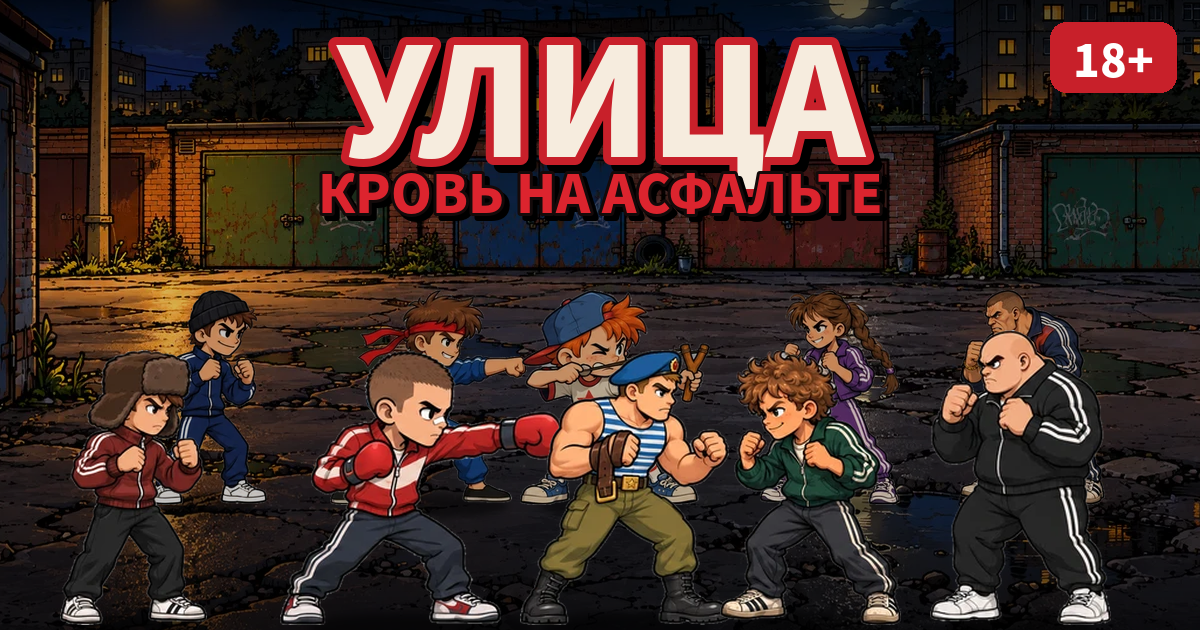
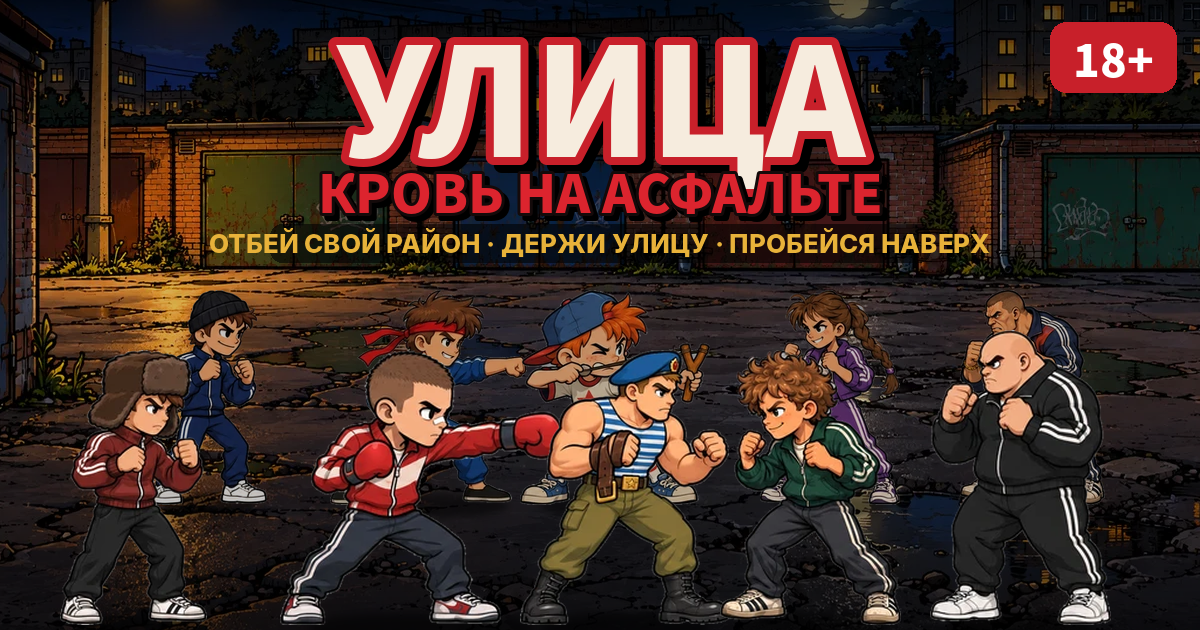
ulica: разрулить внутри сюжетов (главы 1, 4, 7, 8 и этапы рынка 2, 4, 6), слоган «Отбей свой район», капуста — зелёные купюры, кнопка кармана — бутылка; обложка со слоганом
Claude-Session: https://claude.ai/code/session_017w6utUE8t4YTdujvejqZkJ

Changed region(s): [[0.1542, 0.3317, 0.8325, 0.4222]]

diff --git a/ulica/index.html b/ulica/index.html
@@ -34,10 +34,10 @@ button.on{border-color:var(--gold);background:#3a2a1a}
 #stick{position:absolute;left:4vw;bottom:6vh;width:150px;height:150px;border-radius:50%;background:rgba(255,255,255,.08);border:2px solid rgba(255,255,255,.18);pointer-events:auto}
 #knob{position:absolute;left:50%;top:50%;width:62px;height:62px;margin:-31px 0 0 -31px;border-radius:50%;background:rgba(255,255,255,.28)}
 .tb{position:absolute;width:84px;height:84px;border-radius:50%;background:rgba(200,32,42,.55);border:2px solid rgba(255,255,255,.3);color:#fff;font:900 15px system-ui;display:grid;place-items:center;pointer-events:auto}
-#bA{right:4vw;bottom:8vh}#bC small,#bD small{display:block;font-size:9px;font-weight:800;margin-top:-6px}#bC,#bD{display:flex;flex-direction:column;align-items:center;justify-content:center}#bD{right:calc(4vw + 100px);bottom:calc(8vh + 100px);width:58px;height:58px;font-size:24px;background:rgba(232,178,58,.45)}#bC{right:calc(4vw + 30px);bottom:calc(8vh + 100px);width:58px;height:58px;font-size:24px;background:rgba(90,208,90,.45)}.shg{display:grid;grid-template-columns:repeat(auto-fill,minmax(150px,1fr));gap:8px;margin:8px 0}.shb{display:flex;flex-direction:column;align-items:center;gap:2px;padding:10px 6px}.shb span{font-size:28px}.shb small{opacity:.8;font-weight:600;font-size:12px}.shb i{font-style:normal;color:var(--gold);font-weight:800}.shb.on{outline:3px solid #5ad05a}.stb.on{outline:3px solid var(--gold)}#bB{right:calc(4vw + 96px);bottom:4vh;background:rgba(232,178,58,.5)}
+#bA{right:4vw;bottom:8vh}#bC small,#bD small{display:block;font-size:9px;font-weight:800;margin-top:-6px}#bC,#bD{display:flex;flex-direction:column;align-items:center;justify-content:center}#bD{right:calc(4vw + 100px);bottom:calc(8vh + 100px);width:58px;height:58px;font-size:24px;background:rgba(232,178,58,.45)}#bC{right:calc(4vw + 30px);bottom:calc(8vh + 100px);width:58px;height:58px;font-size:24px;background:rgba(90,208,90,.45)}.kp{display:inline-block;width:1.55em;height:1em;background:url(img/kap.png) center/contain no-repeat;vertical-align:-.18em;font-style:normal}.shg{display:grid;grid-template-columns:repeat(auto-fill,minmax(150px,1fr));gap:8px;margin:8px 0}.shb{display:flex;flex-direction:column;align-items:center;gap:2px;padding:10px 6px}.shb span{font-size:28px}.shb small{opacity:.8;font-weight:600;font-size:12px}.shb i{font-style:normal;color:var(--gold);font-weight:800}.shb.on{outline:3px solid #5ad05a}.stb.on{outline:3px solid var(--gold)}#bB{right:calc(4vw + 96px);bottom:4vh;background:rgba(232,178,58,.5)}
 </style></head><body>
 <div id="wrap"><canvas id="c" width="1280" height="720" aria-label="Улица"></canvas></div>
-<div id="touch" hidden><div id="stick"><div id="knob"></div></div><div class="tb" id="bA">УДАР</div><div class="tb" id="bB">ПИНОК</div><div class="tb" id="bC">🥛<small>карман</small></div><div class="tb" id="bD">🔄<small>сменить</small></div></div>
+<div id="touch" hidden><div id="stick"><div id="knob"></div></div><div class="tb" id="bA">УДАР</div><div class="tb" id="bB">ПИНОК</div><div class="tb" id="bC"><img src="img/w_kefir.webp" alt="" style="width:34px;height:34px;object-fit:contain;transform:rotate(-80deg);pointer-events:none"><small>карман</small></div><div class="tb" id="bD">🔄<small>сменить</small></div></div>
 <button id="mb" hidden>☰ Меню</button><div id="ui"></div>
 <script src="https://unpkg.com/mqtt@5.10.1/dist/mqtt.min.js"></script>
 <script src="/net.js"></script>
@@ -653,7 +653,7 @@ function progHTML(){const P=PROG.h[myHero],k=Math.min(100,P.xp/xpNeed(P.lv)*100)
  return `<div class="pbox"><b>${HEROES[myHero].name} · уровень ${P.lv} · ${rankOf(P.lv)}</b><div class="xpb"><i style="width:${k}%"></i></div><small>опыт ${P.xp}/${xpNeed(P.lv)} · очки прокачки: <b style="color:var(--gold)">${P.pts}</b></small>
  <div class="row">${Object.entries(UPS).map(([u,d])=>`<button class="up" data-u="${u}" ${P.pts>0&&P.up[u]<UPMAX?'':'disabled'}>${d.name} ${P.up[u]}/${UPMAX} <small>${d.desc}</small> ＋</button>`).join('')}</div>
  <small style="opacity:.7">Опыт: нокаут +25, победа в раунде +40 (задание +60), победа в матче +100</small></div>`}
-function progLine(){const P=PROG.h[myHero];return `<p class="sub">+${MXP} опыта · +${MKAP} 🥬 · ${HEROES[myHero].name}: уровень ${P.lv} (${rankOf(P.lv)})${MLV?` · <b style="color:#7cf07c">новых уровней: ${MLV}</b> — вложи очки в меню`:''}</p>`}
+function progLine(){const P=PROG.h[myHero];return `<p class="sub">+${MXP} опыта · +${MKAP} <i class="kp"></i> · ${HEROES[myHero].name}: уровень ${P.lv} (${rankOf(P.lv)})${MLV?` · <b style="color:#7cf07c">новых уровней: ${MLV}</b> — вложи очки в меню`:''}</p>`}
 
 /* ---------- shared paint helpers ---------- */
 function vignette(g){const vg=g.createRadialGradient(W/2,H*.62,210,W/2,H*.6,900);vg.addColorStop(0,'rgba(0,0,0,0)');vg.addColorStop(1,'rgba(0,0,0,.55)');g.fillStyle=vg;g.fillRect(0,0,W,H)}
@@ -1150,14 +1150,14 @@ PAINTERS.disko=g=>bgPhoto(g,'disko',paintDisko);
 /* ---------- СЮЖЕТ «ПУТЬ ПАЦАНА» + БОССЫ ---------- */
 WEAPONS.bpistol={name:'Ствол',dmg:16,range:900,cd:1.9,knock:220,ammo:99,col:'#1c1c22',gun:1};
 const CH=[
- {t:'Новенький',m:'ffa',ic:'🧢',tx:'Ты только переехал в этот район. Здесь свои порядки: новенького всегда проверяют у гаражей. Выстой — и с тобой начнут разговаривать.'},
+ {t:'Новенький',m:'ffa',ic:'🧢',rz:{at:'round',who:'Местный старший',tip:'После первой стычки старший у гаражей машет рукой: «Хватит. Давай поговорим — кто ты такой?»'},tx:'Ты только переехал в этот район. Здесь свои порядки: новенького всегда проверяют у гаражей. Выстой — и с тобой начнут разговаривать.'},
  {t:'Свои',m:'team',ic:'🤝',tx:'Тебя заметили. Старшие зовут в компанию, но сначала — стенка на стройке, двое на двое. Посмотрим, прикроешь ли ты своего.'},
  {t:'Дефицит',m:'zavod',ic:'📦',tx:'Старшие говорят: на заводе «Прогресс» лежит ящик дефицита. Ночью, тихо, через дыру в заборе. Сторожа злые, а у деда — ружьё с солью.'},
- {t:'Отжать салон',m:'salon',ic:'📼',tx:'Видик с соседнего района крутит кино в подвале и ни с кем не делится. Пора объяснить ему, чей это район.'},
+ {t:'Отжать салон',m:'salon',ic:'📼',rz:{at:'start',who:'Видик',tip:'Хозяин салона выходит навстречу: «Может, договоримся, пока аппаратуру не побили?»'},tx:'Видик с соседнего района крутит кино в подвале и ни с кем не делится. Пора объяснить ему, чей это район.'},
  {t:'Разборка по кругу',m:'rayon',ic:'🚲',tx:'Заречные решили, что гаражи теперь их. Разбор — на великах и скейтах, три круга по району. Приди первым или сбей их всех.'},
  {t:'Облава',m:'oblava',ic:'🚨',tx:'После гонки по району всё отделение на ушах. Нычки раскиданы по пустырю — собери и уйди в свой гараж, пока не рассвело.'},
- {t:'Дискотека',m:'disko',ic:'🪩',tx:'Суббота, ДК «Строитель». Пока играет медляк — мир, дружинники смотрят. Но заречные пришли не танцевать.'},
- {t:'Бригадир',m:'boss',b:'brig',ic:'⛑',tx:'Бригадир со стройки собирает дань с гаражей. Говорят, ломом машет как прутиком, а кирпичи кидает через весь двор. Один на один.'},
+ {t:'Дискотека',m:'disko',ic:'🪩',rz:{at:'round',who:'Старший заречных',tip:'После первого раунда старший заречных отводит тебя в сторону: «Дружинники смотрят. Решим по-тихому?»'},tx:'Суббота, ДК «Строитель». Пока играет медляк — мир, дружинники смотрят. Но заречные пришли не танцевать.'},
+ {t:'Бригадир',m:'boss',b:'brig',ic:'⛑',rz:{at:'start',who:'Бригадир',tip:'Бригадир опирается на лом: «Дань с гаражей — моя. Но если ты такой умный — объясни, почему нет.»'},tx:'Бригадир со стройки собирает дань с гаражей. Говорят, ломом машет как прутиком, а кирпичи кидает через весь двор. Один на один.'},
  {t:'Хозяин рынка',m:'boss',b:'host',ic:'👑',tx:'Последний — Хозяин рынка. Пока он держит рынок, район не твой. С ним охрана, а у него самого — ствол.'}];
 const CAMP={on:0,ch:0};
 function campMax(){return Math.min(CH.length,LS.get('camp',1))}
@@ -1166,9 +1166,14 @@ function showCamp(){state='menu';CAMP.on=0;$ui.hidden=false;document.getElementB
  ${mx>=CH.length&&LS.get('campdone',0)?'<p class="sub" style="color:var(--gold)">★ Сюжет пройден. Район твой.</p>':''}<div class="row"><button id="back">Назад</button></div></div>`;
  $ui.querySelectorAll('.ch').forEach(b=>b.onclick=()=>showChapter(+b.dataset.c));document.getElementById('back').onclick=showMenu}
 function showChapter(i){const c=CH[i];$ui.innerHTML=`<div class="card"><p class="sub">Глава ${i+1} из ${CH.length}</p><h1 style="font-size:clamp(34px,7vw,64px)">${c.ic} ${c.t.toUpperCase()}</h1><div class="warn" style="border-color:#4a3d48;text-align:left;font-size:17px">${c.tx}</div>
- <div class="row"><button class="pri" id="cgo">Начать главу</button>${RZCH.includes(c.m)?'<button id="crz">🗣 Разрулить без драки</button>':''}<button id="cback">К главам</button></div></div>`;
- document.getElementById('cgo').onclick=()=>{au();CAMP.on=1;CAMP.ch=i;mode=c.m;G=null;LOC=0;paintBG();start()};document.getElementById('cback').onclick=showCamp;const rb=document.getElementById('crz');if(rb)rb.onclick=()=>{CAMP.on=1;CAMP.ch=i;rzStart(c.b==='host'?'Хозяин рынка':c.b==='brig'?'Бригадир':c.m==='salon'?'Видик':'Старший',.15+i/CH.length*.85,()=>{state='end';$ui.innerHTML=`<div class="card"><h1 style="text-shadow:4px 4px 0 #e8b23a">РАЗРУЛИЛ</h1><p class="sub">${c.t}: решено без драки.</p>${progLine()}<div class="row"><button id="again">Ещё раз</button><button id="menu">Меню</button></div></div>`;campAfter(true);const ag=document.getElementById('again');if(ag)ag.onclick=()=>showChapter(i)},()=>{state='menu';$ui.innerHTML=`<div class="card"><h1 style="text-shadow:4px 4px 0 #c8202a">НЕ ВЫШЛО</h1><p class="sub">Разговор не сложился. Значит — драка.</p><div class="row"><button class="pri" id="cf">👊 В бой</button><button id="cb">К главам</button></div></div>`;document.getElementById('cf').onclick=()=>{au();CAMP.on=1;CAMP.ch=i;mode=c.m;G=null;LOC=0;paintBG();start()};document.getElementById('cb').onclick=showCamp})}}
-const RZCH=['ffa','team','salon','boss'];
+ <div class="row"><button class="pri" id="cgo">Начать главу</button>${c.rz?'<p class="sub" style="font-size:13px;color:var(--gold)">🗣 В этой главе можно попробовать разрулить по понятиям</p>':''}<button id="cback">К главам</button></div></div>`;
+ document.getElementById('cgo').onclick=()=>{au();CAMP.on=1;CAMP.ch=i;mode=c.m;G=null;LOC=0;paintBG();start()};document.getElementById('cback').onclick=showCamp}
+const RZCH=[];
+/* разрулить внутри сюжета: в отдельных главах посреди боя появляется возможность договориться */
+function campRzWin(){const i=CAMP.ch,c=CH[i];state='end';document.getElementById('mb').hidden=true;document.getElementById('touch').hidden=true;$ui.hidden=false;
+ $ui.innerHTML=`<div class="card"><h1 style="text-shadow:4px 4px 0 #e8b23a">РАЗРУЛИЛ</h1><p class="sub">${c.t}: решили по понятиям, без лишней крови.</p>${progLine()}<div class="row"><button id="again">Ещё раз</button><button id="menu">Меню</button></div></div>`;campAfter(true);const ag=document.getElementById('again');if(ag)ag.onclick=()=>showChapter(i)}
+function campRzCheck(at){if(!CAMP.on||!G||CAMP.rzAsked)return false;const c=CH[CAMP.ch];if(!c||!c.rz||c.rz.at!==at)return false;CAMP.rzAsked=1;
+ rzOffer(c.rz.who,.15+CAMP.ch/CH.length*.8,c.rz.tip,()=>{if(at==='round')newRound()},()=>campRzWin());return true}
 function campAfter(won){if(!CAMP.on)return;const card=$ui.querySelector('.card');if(!card)return;const i=CAMP.ch,last=i===CH.length-1,d=document.createElement('div');
  if(won){if(campMax()<i+2)LS.set('camp',Math.min(CH.length,i+2));gainXP(50);if(last){LS.set('campdone',1);gainXP(250)}
   d.innerHTML=last?`<div class="warn" style="border-color:var(--gold)"><b>Район твой. Теперь ты — старший.</b><br>Сюжет пройден! +300 опыта.</div><div class="row"><button class="pri" id="cnext">К главам</button></div>`:`<p class="sub" style="color:var(--gold)">Глава ${i+1} пройдена! +50 опыта</p><div class="row"><button class="pri" id="cnext">Глава ${i+2}: ${CH[i+1].t} ▶</button></div>`}
@@ -1212,7 +1217,7 @@ function rynInit(){G.wave=1;G.waves=2;G.bossOn=0;G.clearT=0;const me=G.F[0];if(R
  const B=RST[RYN.st-1];G.msg='ЭТАП '+RYN.st+'/7 · '+B.loc.toUpperCase();G.sub='Впереди '+B.b.toLowerCase()+'. Сначала разберись с его людьми.';G.msgT=3;spawnDrop('kefir');spawnDrop(null)}
 function rynUpdate(dt){if(G.over)return;const en=G.F.filter(f=>f.team===1&&f.state!=='ko');if(en.length)return;
  if(G.wave<G.waves){G.wave++;G0wave(G.F,G.wave);G.FX.push({x:1100,y:300,t:0,life:1.2,txt:'ЕЩЁ ИДУТ!',c:'#ff7a3a',big:1});spawnDrop(Math.random()<.5?'kefir':null)}
- else if(!G.bossOn){G.bossOn=1;const s=RYN.st,B=RST[s-1];rzOffer(B.b,(s-1)/6,B.tip,rynSpawnBoss,()=>{G.FX.push({x:640,y:300,t:0,life:1.6,txt:'РАЗРУЛИЛ!',c:'#e8b23a',big:1})})}
+ else if(!G.bossOn){G.bossOn=1;const s=RYN.st,B=RST[s-1];if(![2,4,6].includes(s)){rynSpawnBoss();return}rzOffer(B.b,(s-1)/6,B.tip,rynSpawnBoss,()=>{G.FX.push({x:640,y:300,t:0,life:1.6,txt:'РАЗРУЛИЛ!',c:'#e8b23a',big:1})})}
  else{G.over=1;G.overT=0;G.win=true;G.msg=RYN.st<7?'ЭТАП ПРОЙДЕН':'РЫНОК ТВОЙ!';G.sub='';G.msgT=99;SFX.bell();gainXP(60)}}
 function rynokEnd(){const me=G.F[0];if(G.win&&RYN.st<7){RYN.hp=me.hp;RYN.carry=1;RYN.st++;if(RYN.st>rynMax())LS.set('ryn',RYN.st);newRound();return}
  state='end';document.getElementById('mb').hidden=true;$ui.hidden=false;document.getElementById('touch').hidden=true;const won=G.win;if(won){gainXP(200);LS.set('ryndone',1)}
@@ -1374,18 +1379,18 @@ function tgApply(d){if(!d||!d.ok)return false;if(d.secret){TG.secret=d.secret;TG
 async function tgHello(){try{let d=TG.id?await tgCall('state'):null;if(!d||!d.ok){TG.id='';TG.secret='';d=await tgCall('hello',{name:'Пацан'})}TG.err=tgApply(d)?'':'нет связи'}catch(e){TG.err='нет связи с банком'}}
 async function tgSwap(dir,n){if(TG.c==null)await tgHello();if(TG.c==null)return 'Нет связи с банком Тагшим';
  if(dir==='in'){const kap=n*KRATE;if(INV.kap<kap)return 'Не хватает капусты';try{const d=await tgCall('swap',{dir:'in',n,game:'ulica'});if(!d.ok)return d.err==='cap'?'Сегодня больше не меняют — лимит 300 ₮ в день':'Не получилось';tgApply(d);INV.kap-=d.got*KRATE;invSave();return `+${d.got} ₮ тагшим`}catch(e){return 'Нет связи с банком Тагшим'}}
- else{try{const d=await tgCall('swap',{dir:'out',n,game:'ulica'});if(!d.ok)return d.err==='money'?'Не хватает тагшимов':'Не получилось';tgApply(d);INV.kap+=d.got*KRATE;invSave();return `+${d.got*KRATE} 🥬 капусты`}catch(e){return 'Нет связи с банком Тагшим'}}}
+ else{try{const d=await tgCall('swap',{dir:'out',n,game:'ulica'});if(!d.ok)return d.err==='money'?'Не хватает тагшимов':'Не получилось';tgApply(d);INV.kap+=d.got*KRATE;invSave();return `+${d.got*KRATE} <i class="kp"></i> капусты`}catch(e){return 'Нет связи с банком Тагшим'}}}
 /* ---- экран барахолки ---- */
 let SHTAB='w';
 function showShop(msg){state='menu';$ui.hidden=false;document.getElementById('mb').hidden=true;document.getElementById('touch').hidden=true;
  const tabs=[['w','🔪 Оружие'],['i','👕 Шмот'],['c','🥤 Расходники'],['x','💱 Обмен']];let body='';
- if(SHTAB==='w')body=`<p class="sub">Покупаешь один раз. Выбранное оружие у тебя в руках в начале каждого боя (в гонках не берётся).</p><div class="shg">${SHW.map(([k,p])=>{const own=INV.w.includes(k),on=INV.sel===k;return `<button class="shb ${on?'on':''}" data-w="${k}" ${!own&&INV.kap<p?'disabled':''}><img src="img/w_${k}.webp" style="height:34px;max-width:120px;object-fit:contain"><b>${WEAPONS[k].name}${k==='pistol'?' · 3 патрона':''}</b><small>урон ${WEAPONS[k].dmg}</small><i>${own?(on?'✔ в руках':'взять'):p+' 🥬'}</i></button>`}).join('')}</div>${INV.sel?'<div class="row"><button id="shnone">Начинать с кулаками</button></div>':''}`;
- else if(SHTAB==='i')body=`<p class="sub">Надеть можно 3 вещи сразу (надето: ${INV.eq.length}/3).</p><div class="shg">${Object.entries(SHI).map(([k,I])=>{const own=INV.it.includes(k),on=EQ(k);return `<button class="shb ${on?'on':''}" data-i="${k}" ${!own&&INV.kap<I.p?'disabled':''}><span>${I.ic}</span><b>${I.n}</b><small>${I.d}</small><i>${own?(on?'✔ надето':'надеть'):I.p+' 🥬'}</i></button>`}).join('')}</div>`;
- else if(SHTAB==='c')body=`<p class="sub">В бою — кнопка 🎒 или клавиша Q. Сама выберет: кефир, если ранен, иначе тархун, иначе жвачку.</p><div class="shg">${Object.entries(SHC).map(([k,I])=>`<button class="shb" data-c="${k}" ${INV.kap<I.p?'disabled':''}><span>${I.ic}</span><b>${I.n}</b><small>${I.d}</small><i>${I.p} 🥬 · есть ${INV.c[k]}</i></button>`).join('')}</div>`;
- else body=`<p class="sub">Тагшим ₮ — общая валюта всех игр Тагшим. Курс: ${KRATE} 🥬 = 1 ₮. Из капусты в тагшимы — до 300 ₮ в день.</p><div class="warn" style="border-color:#e8b23a;font-size:18px">🥬 ${INV.kap} капусты &nbsp;·&nbsp; ₮ ${TG.c==null?(TG.err||'…'):TG.c} тагшим</div>
-  <div class="row"><span style="align-self:center">🥬 → ₮</span>${[10,50,100].map(n=>`<button class="sx" data-d="in" data-n="${n}" ${INV.kap<n*KRATE?'disabled':''}>${n*KRATE} 🥬 → ${n} ₮</button>`).join('')}</div>
-  <div class="row"><span style="align-self:center">₮ → 🥬</span>${[10,50,100].map(n=>`<button class="sx" data-d="out" data-n="${n}" ${TG.c!=null&&TG.c<n?'disabled':''}>${n} ₮ → ${n*KRATE} 🥬</button>`).join('')}</div>`;
- $ui.innerHTML=`<div class="card"><h1 style="font-size:clamp(32px,6vw,54px)">БАРАХОЛКА</h1><p class="sub">У гаражей, у Барыги. Всё по-честному — почти.</p><div class="warn" style="border-color:#5ad05a;padding:8px;font-size:20px"><b>🥬 ${INV.kap}</b> капусты${TG.c!=null?` · ₮ ${TG.c}`:''}</div>${msg?`<p class="sub" style="color:var(--gold)">${msg}</p>`:''}
+ if(SHTAB==='w')body=`<p class="sub">Покупаешь один раз. Выбранное оружие у тебя в руках в начале каждого боя (в гонках не берётся).</p><div class="shg">${SHW.map(([k,p])=>{const own=INV.w.includes(k),on=INV.sel===k;return `<button class="shb ${on?'on':''}" data-w="${k}" ${!own&&INV.kap<p?'disabled':''}><img src="img/w_${k}.webp" style="height:34px;max-width:120px;object-fit:contain"><b>${WEAPONS[k].name}${k==='pistol'?' · 3 патрона':''}</b><small>урон ${WEAPONS[k].dmg}</small><i>${own?(on?'✔ в руках':'взять'):p+' <i class="kp"></i>'}</i></button>`}).join('')}</div>${INV.sel?'<div class="row"><button id="shnone">Начинать с кулаками</button></div>':''}`;
+ else if(SHTAB==='i')body=`<p class="sub">Надеть можно 3 вещи сразу (надето: ${INV.eq.length}/3).</p><div class="shg">${Object.entries(SHI).map(([k,I])=>{const own=INV.it.includes(k),on=EQ(k);return `<button class="shb ${on?'on':''}" data-i="${k}" ${!own&&INV.kap<I.p?'disabled':''}><span>${I.ic}</span><b>${I.n}</b><small>${I.d}</small><i>${own?(on?'✔ надето':'надеть'):I.p+' <i class="kp"></i>'}</i></button>`}).join('')}</div>`;
+ else if(SHTAB==='c')body=`<p class="sub">В бою — кнопка 🎒 или клавиша Q. Сама выберет: кефир, если ранен, иначе тархун, иначе жвачку.</p><div class="shg">${Object.entries(SHC).map(([k,I])=>`<button class="shb" data-c="${k}" ${INV.kap<I.p?'disabled':''}><span>${I.ic}</span><b>${I.n}</b><small>${I.d}</small><i>${I.p} <i class="kp"></i> · есть ${INV.c[k]}</i></button>`).join('')}</div>`;
+ else body=`<p class="sub">Тагшим ₮ — общая валюта всех игр Тагшим. Курс: ${KRATE} <i class="kp"></i> = 1 ₮. Из капусты в тагшимы — до 300 ₮ в день.</p><div class="warn" style="border-color:#e8b23a;font-size:18px"><i class="kp"></i> ${INV.kap} капусты &nbsp;·&nbsp; ₮ ${TG.c==null?(TG.err||'…'):TG.c} тагшим</div>
+  <div class="row"><span style="align-self:center"><i class="kp"></i> → ₮</span>${[10,50,100].map(n=>`<button class="sx" data-d="in" data-n="${n}" ${INV.kap<n*KRATE?'disabled':''}>${n*KRATE} <i class="kp"></i> → ${n} ₮</button>`).join('')}</div>
+  <div class="row"><span style="align-self:center">₮ → <i class="kp"></i></span>${[10,50,100].map(n=>`<button class="sx" data-d="out" data-n="${n}" ${TG.c!=null&&TG.c<n?'disabled':''}>${n} ₮ → ${n*KRATE} <i class="kp"></i></button>`).join('')}</div>`;
+ $ui.innerHTML=`<div class="card"><h1 style="font-size:clamp(32px,6vw,54px)">БАРАХОЛКА</h1><p class="sub">У гаражей, у Барыги. Всё по-честному — почти.</p><div class="warn" style="border-color:#5ad05a;padding:8px;font-size:20px"><b><i class="kp"></i> ${INV.kap}</b> капусты${TG.c!=null?` · ₮ ${TG.c}`:''}</div>${msg?`<p class="sub" style="color:var(--gold)">${msg}</p>`:''}
  <div class="row">${tabs.map(([k,n])=>`<button class="stb ${SHTAB===k?'on':''}" data-t="${k}">${n}</button>`).join('')}</div>${body}<div class="row"><button id="shback">Назад</button></div></div>`;
  $ui.querySelectorAll('.stb').forEach(b=>b.onclick=()=>{SHTAB=b.dataset.t;showShop();if(SHTAB==='x'&&TG.c==null)tgHello().then(()=>{if(SHTAB==='x'&&state==='menu')showShop()})});
  $ui.querySelectorAll('[data-w]').forEach(b=>b.onclick=()=>{const k=b.dataset.w,p=SHW.find(x=>x[0]===k)[1];if(!INV.w.includes(k)){if(INV.kap<p)return;INV.kap-=p;INV.w.push(k);SFX.pick()}INV.sel=k;invSave();showShop(INV.w.includes(k)?WEAPONS[k].name+' — в руках':'')});
@@ -1479,7 +1484,7 @@ function nEnd(txt,won){state='end';NETU.phase='lobby';if(won)gainXP(100);gainKap
  $ui.innerHTML=`<div class="card"><h1 style="text-shadow:4px 4px 0 ${won?'#e8b23a':'#c8202a'}">${won?'УЛИЦА ТВОЯ':'НЕ В ЭТОТ РАЗ'}</h1><p class="sub">${txt}</p><div class="pbox">${(NETU.P||[]).map(p=>`<div>${p.name} · ${HEROES[p.hero]?HEROES[p.hero].name:''}</div>`).join('')}</div>${progLine()}<div class="row"><button class="pri" id="nlb">В комнату</button><button id="nmn">Выйти в меню</button></div></div>`;
  document.getElementById('nlb').onclick=()=>{G=null;showOnline()};document.getElementById('nmn').onclick=()=>{nLeave();G=null;showMenu()}}
 /* ---------- update ---------- */
-function update(dt){if(RMODE())return rUpdate(dt);G.t+=dt;if(G.msgT>0)G.msgT-=dt;
+function update(dt){if(RMODE())return rUpdate(dt);G.t+=dt;if(CAMP.on&&!CAMP.rzAsked&&G.t>1.6&&!G.over&&campRzCheck('start'))return;if(G.msgT>0)G.msgT-=dt;
  const me=G.F[0];
  for(const f of G.F){f.cd-=dt;f.kcd-=dt;f.atkT-=dt;f.kickT-=dt;f.flash-=dt;f.anim+=dt;if(f.hurtT>0)f.hurtT-=dt;if(f.stun>0)f.stun-=dt;if(f.upT>0)f.upT-=dt;if(f===me)invTick(f,dt);
   if(f.state==='ko'){f.downT+=dt;continue}
@@ -1558,17 +1563,17 @@ function render(t){if(RMODE())return rRender(t);ctx.save();if(shake>0)ctx.transl
 /* ---------- UI ---------- */
 function heroCanvas(i){const c=document.createElement('canvas');c.width=140;c.height=190;const g=c.getContext('2d');drawFighter(g,{x:70,y:180,hero:i,face:1,state:'idle',anim:0,atkT:0,kickT:0,hp:1,max:1,name:'',bot:false,stun:0,weapon:i===2?'rebar':i===0?'bat':i===1?'chain':null,hurtT:0,flash:0,team:0,idx:0,noHud:1},0);
  g.clearRect(0,0,140,14);return c}
-function showAge(){state='age';$ui.hidden=false;$ui.innerHTML=`<div class="card"><h1>УЛИЦА</h1><h2 style="color:#c8202a">КРОВЬ НА АСФАЛЬТЕ</h2><p class="sub">Уличные бои без правил. Конец восьмидесятых.</p>
+function showAge(){state='age';$ui.hidden=false;$ui.innerHTML=`<div class="card"><h1>УЛИЦА</h1><h2 style="color:#c8202a">КРОВЬ НА АСФАЛЬТЕ</h2><p class="sub" style="letter-spacing:1.5px;font-weight:800;color:var(--gold);margin-top:-4px">ОТБЕЙ СВОЙ РАЙОН · ДЕРЖИ УЛИЦУ · ПРОБЕЙСЯ НАВЕРХ</p><p class="sub">Уличные бои без правил. Конец восьмидесятых.</p>
  <div class="warn"><b>18+</b><br>В игре насилие, оружие и кровь. Все персонажи и события вымышлены.</div>
  <div class="row"><button class="pri" id="y18">Мне есть 18</button><button id="n18">Мне нет 18</button></div></div>`;
  document.getElementById('y18').onclick=()=>{au();LS.set('age',1);showMenu()};document.getElementById('n18').onclick=()=>{location.href='https://games.tagshim.com/'}}
 let NROOMQ=(()=>{try{return (new URLSearchParams(location.search).get('room')||'').toUpperCase()}catch(e){return ''}})();
-function showMenu(){if(NETU.on&&NETU.phase==='game')nLeave();if(NROOMQ&&NROOMQ.length===4){const c=NROOMQ;NROOMQ='';if(nConnect(c,0))return showOnline()}if(!heroOwned(myHero)){myHero=0;LS.set('hero',0)}state='menu';CAMP.on=0;document.getElementById('mb').hidden=true;document.getElementById('touch').hidden=true;$ui.hidden=false;$ui.innerHTML=`<div class="card"><h1>УЛИЦА</h1><h2 style="color:#c8202a">КРОВЬ НА АСФАЛЬТЕ</h2><div class="row"><button class="pri" id="camp" style="font-size:19px;padding:14px 22px">▶ СЮЖЕТ: ПУТЬ ПАЦАНА <small style="opacity:.8">глава ${campMax()}/${CH.length}</small></button><button class="pri" id="rynst" style="font-size:19px;padding:14px 22px;background:#8a5a12;border-color:#e8b23a">▶ СЮЖЕТ: РЫНОК <small style="opacity:.8">этап ${rynMax()}/7</small></button></div><div class="row"><button id="shopb" style="font-size:18px;padding:12px 24px">🛒 БАРАХОЛКА <small style="opacity:.8">🥬 ${INV.kap}</small></button></div><p class="sub">Выбери пацана</p><div class="heroes" id="hs"></div><div id="pg">${progHTML()}</div>
+function showMenu(){if(NETU.on&&NETU.phase==='game')nLeave();if(NROOMQ&&NROOMQ.length===4){const c=NROOMQ;NROOMQ='';if(nConnect(c,0))return showOnline()}if(!heroOwned(myHero)){myHero=0;LS.set('hero',0)}state='menu';CAMP.on=0;document.getElementById('mb').hidden=true;document.getElementById('touch').hidden=true;$ui.hidden=false;$ui.innerHTML=`<div class="card"><h1>УЛИЦА</h1><h2 style="color:#c8202a">КРОВЬ НА АСФАЛЬТЕ</h2><p class="sub" style="letter-spacing:1.5px;font-weight:800;color:var(--gold);margin-top:-4px">ОТБЕЙ СВОЙ РАЙОН · ДЕРЖИ УЛИЦУ · ПРОБЕЙСЯ НАВЕРХ</p><div class="row"><button class="pri" id="camp" style="font-size:19px;padding:14px 22px">▶ СЮЖЕТ: ПУТЬ ПАЦАНА <small style="opacity:.8">глава ${campMax()}/${CH.length}</small></button><button class="pri" id="rynst" style="font-size:19px;padding:14px 22px;background:#8a5a12;border-color:#e8b23a">▶ СЮЖЕТ: РЫНОК <small style="opacity:.8">этап ${rynMax()}/7</small></button></div><div class="row"><button id="shopb" style="font-size:18px;padding:12px 24px">🛒 БАРАХОЛКА <small style="opacity:.8"><i class="kp"></i> ${INV.kap}</small></button></div><p class="sub">Выбери пацана</p><div class="heroes" id="hs"></div><div id="pg">${progHTML()}</div>
  <h2 style="margin-top:18px;font-size:20px">Драки, гонки и игры с друзьями</h2><div class="row"><button id="onb" style="font-size:17px;padding:12px 20px">🌐 ОНЛАЙН <small style="opacity:.8">до 6</small></button><button id="rzb" style="font-size:17px;padding:12px 20px">🗣 РАЗРУЛИТЬ <small style="opacity:.8">${rzMax()}/${RZL.length}</small></button></div>
  <div class="row"><button class="mb ${mode==='ffa'?'on':''}" data-m="ffa">Без правил · каждый сам</button><button class="mb ${mode==='team'?'on':''}" data-m="team">Стенка · 2 на 2</button><button class="mb ${mode==='rayon'?'on':''}" data-m="rayon">Район · гонка-драка 3 на 3</button><button class="mb ${mode==='oblava'?'on':''}" data-m="oblava">Облава · уйди от ментов</button><button class="mb ${mode==='disko'?'on':''}" data-m="disko">Дискотека · 3 на 3</button><button class="mb ${mode==='zavod'?'on':''}" data-m="zavod">Завод · укради ящик</button><button class="mb ${mode==='salon'?'on':''}" data-m="salon">Видеосалон · отожми</button></div>
  ${mode==='rynok'?`<div class="row"><span style="align-self:center;opacity:.8">Этап:</span>${Array.from({length:rynMax()},(_,i)=>`<button class="rs ${RYN.st===i+1?'on':''}" data-s="${i+1}">${i+1}. ${RST[i].b.toLowerCase()}</button>`).join('')}</div>`:''}${RMODE()?`<div class="row"><span style="align-self:center;opacity:.8">Транспорт:</span><button class="vh ${VEHSEL==='skate'?'on':''}" data-v="skate">🛹 Скейт — вёрткий</button><button class="vh ${VEHSEL==='bike'?'on':''}" data-v="bike">🚲 Велик — быстрый</button></div>${mode==='rayon'?`<div class="row"><span style="align-self:center;opacity:.8">Трасса:</span>${RMAPS.map((n,i)=>`<button class="rm ${LS.get('rmap',1)===i?'on':''}" data-r="${i}">${n}</button>`).join('')}</div>`:''}`:''}<div class="row"><button id="bl" class="${BLOOD?'on':''}">Кровь: ${BLOOD?'вкл':'выкл'}</button><button class="pri" id="go">В БОЙ</button></div>
  <p class="sub" style="margin-top:14px;font-size:13px">Компьютер: WASD или стрелки · удар — F или левая кнопка мыши · пинок — G или правая кнопка · Q — кефир/тархун/жвачка из кармана · E — поменять оружие (подойди к другому) или бросить. Оружие подбирается само. Завод: прячься от фонарей, бей со спины; с ящиком удар — бросить ящик. Видеосалон: стой в круге у телевизора. Район: держи направление стрелками/джойстиком — едешь туда.</p></div>`;
- const hs=document.getElementById('hs');HEROES.forEach((h,i)=>{const b=document.createElement('button');b.className='hb'+(i===myHero?' on':'');b.appendChild(heroCanvas(i));const own=heroOwned(i);if(!own)b.classList.add('lockh');b.insertAdjacentHTML('beforeend',`<b>${h.name}</b><small>${h.desc}</small>${own?`<small style="color:var(--gold)">ур. ${PROG.h[i].lv}${PROG.h[i].pts?' · очки: '+PROG.h[i].pts:''}</small>`:`<small style="color:var(--gold)">🔒 ${h.price} 🥬</small>`}`);b.onclick=()=>{if(!own){if(INV.kap<h.price){alert(`${h.name} стоит ${h.price} 🥬 капусты. У тебя ${INV.kap}. Капуста даётся за бои.`);return}if(!confirm(`Взять в компанию: ${h.name} за ${h.price} 🥬?`))return;INV.kap-=h.price;INV.heroes.push(h.id);invSave();SFX.bell()}myHero=i;LS.set('hero',i);showMenu()};hs.appendChild(b)});
+ const hs=document.getElementById('hs');HEROES.forEach((h,i)=>{const b=document.createElement('button');b.className='hb'+(i===myHero?' on':'');b.appendChild(heroCanvas(i));const own=heroOwned(i);if(!own)b.classList.add('lockh');b.insertAdjacentHTML('beforeend',`<b>${h.name}</b><small>${h.desc}</small>${own?`<small style="color:var(--gold)">ур. ${PROG.h[i].lv}${PROG.h[i].pts?' · очки: '+PROG.h[i].pts:''}</small>`:`<small style="color:var(--gold)">🔒 ${h.price} <i class="kp"></i></small>`}`);b.onclick=()=>{if(!own){if(INV.kap<h.price){alert(`${h.name} стоит ${h.price} капусты. У тебя ${INV.kap}. Капуста даётся за бои.`);return}if(!confirm(`Взять в компанию: ${h.name} за ${h.price} капусты?`))return;INV.kap-=h.price;INV.heroes.push(h.id);invSave();SFX.bell()}myHero=i;LS.set('hero',i);showMenu()};hs.appendChild(b)});
  document.getElementById('camp').onclick=()=>{au();showCamp()};document.getElementById('rynst').onclick=()=>{au();mode='rynok';LS.set('mode',mode);RYN.st=rynMax();RYN.carry=0;G=null;LOC=0;paintBG();start()};document.getElementById('rzb').onclick=()=>{au();showRz()};document.getElementById('shopb').onclick=()=>{au();showShop()};document.getElementById('onb').onclick=()=>{au();showOnline()};
  $ui.querySelectorAll('.up').forEach(b=>b.onclick=()=>{const P=PROG.h[myHero],k=b.dataset.u;if(P.pts>0&&P.up[k]<UPMAX){P.pts--;P.up[k]++;saveProg();au();SFX.pick();showMenu()}});
  $ui.querySelectorAll('.rm').forEach(b=>b.onclick=()=>{RMAP=+b.dataset.r;LS.set('rmap',RMAP);showMenu()});
@@ -1577,11 +1582,11 @@ function showMenu(){if(NETU.on&&NETU.phase==='game')nLeave();if(NROOMQ&&NROOMQ.l
  $ui.querySelectorAll('.mb').forEach(b=>b.onclick=()=>{mode=b.dataset.m;LS.set('mode',mode);G=null;LOC=0;paintBG();showMenu()});
  document.getElementById('bl').onclick=()=>{BLOOD=!BLOOD;LS.set('blood',BLOOD);showMenu()};
  document.getElementById('go').onclick=()=>{au();G=null;start()}}
-function start(){AOFF=Math.random()*4|0;try{getSelection().removeAllRanges()}catch(e){}$ui.hidden=true;state='play';MXP=0;MLV=0;MKAP=0;document.getElementById('mb').hidden=false;newRound();document.getElementById('touch').hidden=!('ontouchstart' in window||navigator.maxTouchPoints>0)}
+function start(){CAMP.rzAsked=0;AOFF=Math.random()*4|0;try{getSelection().removeAllRanges()}catch(e){}$ui.hidden=true;state='play';MXP=0;MLV=0;MKAP=0;document.getElementById('mb').hidden=false;newRound();document.getElementById('touch').hidden=!('ontouchstart' in window||navigator.maxTouchPoints>0)}
 function roundEnd(){if(NETU.on&&NETU.host){if(!nMatchCheck())newRound();return}if(mode==='rynok')return rynokEnd();const w=G.wins,need=mode==='boss'?1:2;if((w.me||0)>=need||(w.them||0)>=need){state='end';document.getElementById('mb').hidden=true;const won=(w.me||0)>=need;if(won)gainXP(100);$ui.hidden=false;document.getElementById('touch').hidden=true;
   $ui.innerHTML=`<div class="card"><h1 style="text-shadow:4px 4px 0 ${won?'#e8b23a':'#c8202a'}">${endTitle(won)}</h1><p class="sub">Счёт ${w.me||0}:${w.them||0} · нокаутов: ${G.F[0].kills}</p>${progLine()}<div class="row"><button class="pri" id="again">Ещё раз</button><button id="menu">Меню</button></div></div>`;
   document.getElementById('again').onclick=()=>{G=null;start()};document.getElementById('menu').onclick=showMenu;campAfter(won)}
- else newRound()}
+ else{if(campRzCheck('round'))return;newRound()}}
 
 /* ---------- input ---------- */
 addEventListener('keydown',e=>{keys[e.code]=true;if(state!=='play')return;if(e.code==='KeyQ'&&!e.repeat)useItem();if(e.code==='KeyE'&&!e.repeat)swapKey();if(['Space','ArrowUp','ArrowDown','ArrowLeft','ArrowRight'].includes(e.code))e.preventDefault();if((e.code==='KeyF'||e.code==='Space'||e.code==='KeyJ')&&!e.repeat)attack(G.F[0]);if((e.code==='KeyG'||e.code==='KeyK')&&!e.repeat)kick(G.F[0])});
@@ -1607,7 +1612,7 @@ function loop(ts){const t=ts/1000,dt=Math.min(.05,t-(last||t));last=t;
  requestAnimationFrame(loop)}
 requestAnimationFrame(loop);
 LS.get('age',0)?showMenu():showAge();
-try{if('serviceWorker' in navigator&&location.protocol==='https:'){navigator.serviceWorker.register('/sw.js').catch(()=>{});if(window.caches)caches.open('tagshim-v2').then(c=>c.addAll(['/ulica/','/ulica/img/pq0.webp','/ulica/img/pq1.webp','/ulica/img/pq2.webp','/ulica/img/pq3.webp','/ulica/img/bg_dvor.webp','/ulica/img/bg_stroika.webp','/ulica/img/rayon_map0.webp','/ulica/img/rayon_map1.webp','/ulica/img/uaz.webp','/ulica/img/bg_disko.webp','/ulica/img/bg_ploshad.webp','/ulica/img/bg_zavod0.webp','/ulica/img/bg_zavod1.webp','/ulica/img/bg_street.webp','/ulica/img/bg_zavod2.webp','/ulica/img/bg_salon0.webp','/ulica/img/bg_salon1.webp','/ulica/img/bg_salon2.webp','/ulica/img/bg_rynok1.webp','/ulica/img/bg_rynok2.webp','/ulica/img/bg_rynok3.webp','/ulica/img/bg_rynok4.webp','/ulica/img/bg_rynok5.webp','/ulica/img/bg_rynok6.webp','/ulica/img/bg_rynok7.webp'].concat(['druzh','ded','storozh','host','brig','dog','g1','g2','g3','baryga','naper','farc','reshala','smotr','myasnik'].map(k=>'/ulica/img/n_'+k+'.webp')).concat(['/ulica/img/tg_icon.png','/ulica/img/h_star.webp','/ulica/img/h_shust.webp','/ulica/img/h_skor.webp','/ulica/img/h_zdor.webp','/ulica/img/h_boxer.webp','/ulica/img/h_karate.webp','/ulica/img/h_dembel.webp','/ulica/img/h_ryzhiy.webp','/ulica/img/h_kaban.webp','/ulica/img/h_marinka.webp','/ulica/img/w_stick.webp','/ulica/img/w_bat.webp','/ulica/img/w_spike.webp','/ulica/img/w_rebar.webp','/ulica/img/w_chain.webp','/ulica/img/w_knux.webp','/ulica/img/w_nunchaku.webp','/ulica/img/w_bottle.webp','/ulica/img/w_knife.webp','/ulica/img/w_stone.webp','/ulica/img/w_pistol.webp','/ulica/img/w_baton.webp','/ulica/img/w_salt.webp','/ulica/img/w_kefir.webp','/ulica/img/w_sling.webp','/ulica/img/w_belt.webp','/ulica/img/rd_bike.webp','/ulica/img/rd_skate.webp']))).catch(()=>{})}}catch(e){}
+try{if('serviceWorker' in navigator&&location.protocol==='https:'){navigator.serviceWorker.register('/sw.js').catch(()=>{});if(window.caches)caches.open('tagshim-v2').then(c=>c.addAll(['/ulica/','/ulica/img/pq0.webp','/ulica/img/pq1.webp','/ulica/img/pq2.webp','/ulica/img/pq3.webp','/ulica/img/bg_dvor.webp','/ulica/img/bg_stroika.webp','/ulica/img/rayon_map0.webp','/ulica/img/rayon_map1.webp','/ulica/img/uaz.webp','/ulica/img/bg_disko.webp','/ulica/img/bg_ploshad.webp','/ulica/img/bg_zavod0.webp','/ulica/img/bg_zavod1.webp','/ulica/img/bg_street.webp','/ulica/img/bg_zavod2.webp','/ulica/img/bg_salon0.webp','/ulica/img/bg_salon1.webp','/ulica/img/bg_salon2.webp','/ulica/img/bg_rynok1.webp','/ulica/img/bg_rynok2.webp','/ulica/img/bg_rynok3.webp','/ulica/img/bg_rynok4.webp','/ulica/img/bg_rynok5.webp','/ulica/img/bg_rynok6.webp','/ulica/img/bg_rynok7.webp'].concat(['druzh','ded','storozh','host','brig','dog','g1','g2','g3','baryga','naper','farc','reshala','smotr','myasnik'].map(k=>'/ulica/img/n_'+k+'.webp')).concat(['/ulica/img/tg_icon.png','/ulica/img/kap.png','/ulica/img/h_star.webp','/ulica/img/h_shust.webp','/ulica/img/h_skor.webp','/ulica/img/h_zdor.webp','/ulica/img/h_boxer.webp','/ulica/img/h_karate.webp','/ulica/img/h_dembel.webp','/ulica/img/h_ryzhiy.webp','/ulica/img/h_kaban.webp','/ulica/img/h_marinka.webp','/ulica/img/w_stick.webp','/ulica/img/w_bat.webp','/ulica/img/w_spike.webp','/ulica/img/w_rebar.webp','/ulica/img/w_chain.webp','/ulica/img/w_knux.webp','/ulica/img/w_nunchaku.webp','/ulica/img/w_bottle.webp','/ulica/img/w_knife.webp','/ulica/img/w_stone.webp','/ulica/img/w_pistol.webp','/ulica/img/w_baton.webp','/ulica/img/w_salt.webp','/ulica/img/w_kefir.webp','/ulica/img/w_sling.webp','/ulica/img/w_belt.webp','/ulica/img/rd_bike.webp','/ulica/img/rd_skate.webp']))).catch(()=>{})}}catch(e){}
 let HOLD=0;window.__r89={get G(){return G},start,loc:i=>{LOC=i;OBST=mode==='ffa'||mode==='team'?[OBST_F,OBST_A1,OBST_A2,[]][i]:OBST;paintBG()},hold:v=>{HOLD=v},attack:()=>attack(G.F[0]),sim:(n,dt)=>{for(let i=0;i<n&&G&&state==='play';i++)update(dt||1/60)},render:()=>render(performance.now()/1000),see:(g,e)=>seesIt(coneOf(g),e),world:()=>{if(!WORLD)paintWorld();const c=document.createElement('canvas');c.width=1500;c.height=1100;c.getContext('2d').drawImage(WORLD,0,0,1500,1100);return c.toDataURL('image/jpeg',.7)}};
 })();
 </script>

diff --git a/index.html b/index.html
@@ -196,7 +196,7 @@ function render(){const t=L[lang];document.documentElement.lang=lang;document.do
   <header class="hero"><img class="heroicon" src="brand/icon-512.png" alt="" width="140" height="140"><h1 class="word"><span class="a">TAGSHIM</span></h1><span class="pill">PLAY ANYWHERE</span>
     <p class="slogan">${t.slogan}</p><button type="button" class="share shtop" id="invTop">🎮 ${t.invite}</button><button type="button" class="shsite" id="shTop">📤 ${t.shareAll}</button><form class="joinc" id="joinF"><span>🔑 ${t.joinT}</span><input id="joinC" maxlength="6" placeholder="ABCD" autocapitalize="characters" autocomplete="off"><button type="submit">▶</button></form><div class="chips">${t.chips.map(c=>`<span class="chip">${esc(c)}</span>`).join('')}</div><div id="inst"></div></header>
   <a class="nightb" href="night/?lang=${lang}"><img src="night/stars/og.png" alt="" width="1200" height="630" loading="lazy"><span><b>${t.nightT}</b><small>${esc(t.nightP)}</small><i>${t.nightGo}</i></span></a>
-  <a class="nightb" href="ulica/" style="border-color:#c8202a"><img src="ulica/og.png?v=2" alt="" width="1200" height="630" loading="lazy"><span><b>🔞 Улица: кровь на асфальте · 18+</b><small>Сюжет «Путь пацана», рынок, гонки по району, 10 пацанов и онлайн до 6.</small><i>Войти ▶</i></span></a>
+  <a class="nightb" href="ulica/" style="border-color:#c8202a"><img src="ulica/og.png?v=3" alt="" width="1200" height="630" loading="lazy"><span><b>🔞 Улица: кровь на асфальте · 18+</b><small>Отбей свой район, держи улицу, пробейся наверх: два сюжета, 10 пацанов, гонки и онлайн до 6.</small><i>Войти ▶</i></span></a>
   <section><h2>${t.games}</h2><div class="games">${card('donkey','donkey/og.png','donkey/?lang='+lang)}${card('burger','burger/og.png','burger/?lang='+lang)}${card('school','school/og.png','school/?lang='+lang)}${card('soccer','soccer/og.png','soccer/?lang='+lang)}${card('snow','snow/og.png','snow/?lang='+lang)}${card('box','box/og.png','box/?lang='+lang)}${card('villain','villain/og.png','villain/?lang='+lang)}${card('train','train/og.png','train/?lang='+lang)}${card('pirate','pirate/og.png','pirate/?lang='+lang)}${card('dino','dino/og.png','dino/?lang='+lang)}${card('balloon','balloon/og.png','balloon/?lang='+lang)}${card('ghost','ghost/og.png','ghost/?lang='+lang)}${card('pizza','pizza/og.png','pizza/?lang='+lang)}${card('sniper','sniper/og.png','sniper/?lang='+lang)}${card('race','race/og.png','race/?lang='+lang)}${card('hospital','hospital/og.png','hospital/?lang='+lang)}${card('bike','bike/og.png','bike/?lang='+lang)}${card('fish','fish/og.png','fish/?lang='+lang)}${card('rifts','rifts/og.png','rifts/?lang='+lang)+card('rifts3','rifts3/og.png','rifts3/?lang='+lang)}</div></section>
   <section><h2>${t.how}</h2><ol class="steps">${t.steps.map(([b,s])=>`<li><b>${esc(b)}</b><span>${esc(s)}</span></li>`).join('')}</ol></section>
   <section class="band"><h2 style="margin:0">${t.bandT}</h2><p>${t.bandP}</p><a class="share" href="https://wa.me/?text=${encodeURIComponent(t.shareText+SITE+'?lang='+lang)}" target="_blank" rel="noopener">💬 ${t.share}</a><span class="link">${SITE.replace('https://','')}</span></section>
